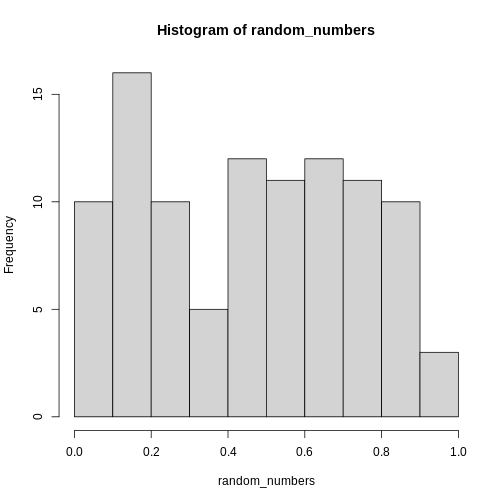
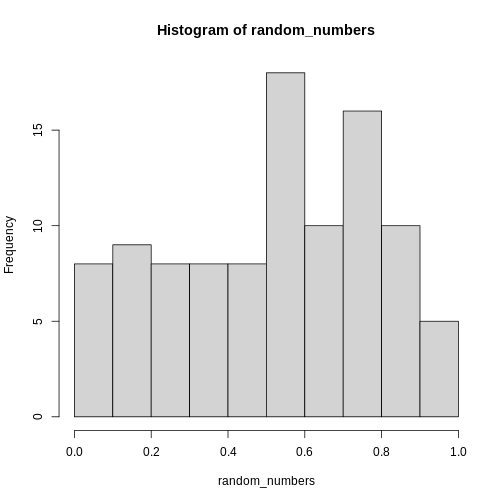
markdown source builds
Auto-generated via `{sandpaper}`
Source  : b9bc65478793bdfb3ea31793bc34e610d1f4d692
Branch  : main
Author  : enerammer <enerammer@gmail.com>
Time    : 2024-11-22 09:40:31 +0000
Message : Har lavet en rmd-fil under lessons, og tilføjet data fra matematik kurset. Er ikke indsat som rigtig lesson

diff --git a/kmeans.md b/kmeans.md
@@ -144,31 +144,31 @@ clustering
 ```
 
 ``` output
-K-means clustering with 3 clusters of sizes 47, 69, 62
+K-means clustering with 3 clusters of sizes 62, 47, 69
 
 Cluster means:
    Alcohol Malicacid      Ash Alcalinityofash Magnesium Totalphenols Flavanoids
-1 13.80447  1.883404 2.426170        17.02340 105.51064     2.867234   3.014255
-2 12.51667  2.494203 2.288551        20.82319  92.34783     2.070725   1.758406
-3 12.92984  2.504032 2.408065        19.89032 103.59677     2.111129   1.584032
+1 12.92984  2.504032 2.408065        19.89032 103.59677     2.111129   1.584032
+2 13.80447  1.883404 2.426170        17.02340 105.51064     2.867234   3.014255
+3 12.51667  2.494203 2.288551        20.82319  92.34783     2.070725   1.758406
   Nonflavanoidphenols Proanthocyanins Colorintensity       Hue
-1           0.2853191        1.910426       5.702553 1.0782979
-2           0.3901449        1.451884       4.086957 0.9411594
-3           0.3883871        1.503387       5.650323 0.8839677
+1           0.3883871        1.503387       5.650323 0.8839677
+2           0.2853191        1.910426       5.702553 1.0782979
+3           0.3901449        1.451884       4.086957 0.9411594
   OD280OD315ofdilutedwines   Proline
-1                 3.114043 1195.1489
-2                 2.490725  458.2319
-3                 2.365484  728.3387
+1                 2.365484  728.3387
+2                 3.114043 1195.1489
+3                 2.490725  458.2319
 
 Clustering vector:
-  [1] 1 1 1 1 3 1 1 1 1 1 1 1 1 1 1 1 1 1 1 3 3 3 1 1 3 3 1 1 3 1 1 1 1 1 1 3 3
- [38] 1 1 3 3 1 1 3 3 1 1 1 1 1 1 1 1 1 1 1 1 1 1 2 3 2 3 2 2 3 2 2 3 3 3 2 2 1
- [75] 3 2 2 2 3 2 2 3 3 2 2 2 2 2 3 3 2 2 2 2 2 3 3 2 3 2 3 2 2 2 3 2 2 2 2 3 2
-[112] 2 3 2 2 2 2 2 2 2 3 2 2 2 2 2 2 2 2 2 3 2 2 3 3 3 3 2 2 2 3 3 2 2 3 3 2 3
-[149] 3 2 2 2 2 3 3 3 2 3 3 3 2 3 2 3 3 2 3 3 3 3 2 2 3 3 3 3 3 2
+  [1] 2 2 2 2 1 2 2 2 2 2 2 2 2 2 2 2 2 2 2 1 1 1 2 2 1 1 2 2 1 2 2 2 2 2 2 1 1
+ [38] 2 2 1 1 2 2 1 1 2 2 2 2 2 2 2 2 2 2 2 2 2 2 3 1 3 1 3 3 1 3 3 1 1 1 3 3 2
+ [75] 1 3 3 3 1 3 3 1 1 3 3 3 3 3 1 1 3 3 3 3 3 1 1 3 1 3 1 3 3 3 1 3 3 3 3 1 3
+[112] 3 1 3 3 3 3 3 3 3 1 3 3 3 3 3 3 3 3 3 1 3 3 1 1 1 1 3 3 3 1 1 3 3 1 1 3 1
+[149] 1 3 3 3 3 1 1 1 3 1 1 1 3 1 3 1 1 3 1 1 1 1 3 3 1 1 1 1 1 3
 
 Within cluster sum of squares by cluster:
-[1] 1360950.5  443166.7  566572.5
+[1]  566572.5 1360950.5  443166.7
  (between_SS / total_SS =  86.5 %)
 
 Available components:
@@ -188,9 +188,9 @@ table()
 ``` output
      true
 quess  1  2  3
-    1 46  1  0
-    2  0 50 19
-    3 13 20 29
+    1 13 20 29
+    2 46  1  0
+    3  0 50 19
 ```
 
 The algorithm have no idea about the numbering, the three groups are numbered 

diff --git a/clt.md b/clt.md
@@ -45,7 +45,7 @@ mean(random_numbers)
 ```
 
 ``` output
-[1] 0.4572633
+[1] 0.5194805
 ```
 The important point of the Central Limit Theorem is, that if we take a large
 number of random samples, and calculate the mean of each of these samples,
@@ -59,7 +59,7 @@ mean(runif(100))
 ```
 
 ``` output
-[1] 0.5110487
+[1] 0.4779663
 ```
 And we can use the `replicate()` function to repeat that calculation several times, in this case 1000 times:
 

diff --git a/normal-distribution.md b/normal-distribution.md
@@ -196,7 +196,7 @@ rnorm(5, mean = 0, sd = 1 )
 ```
 
 ``` output
-[1] -2.35718363 -0.46341236  0.08830262  0.38872022  0.43853072
+[1] -0.27975506 -1.32553177 -0.51786389  0.03420198  0.11431349
 ```
 Den returnerer (her) fem tilfældige værdier fra en normalfordeling med (her) 
 middelværdi 0 og standardafvigelse 1.
